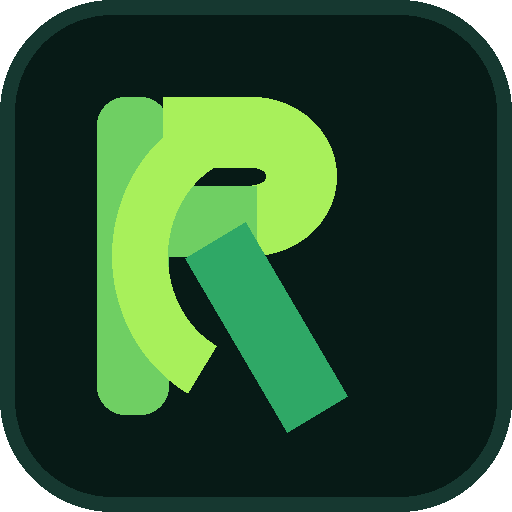
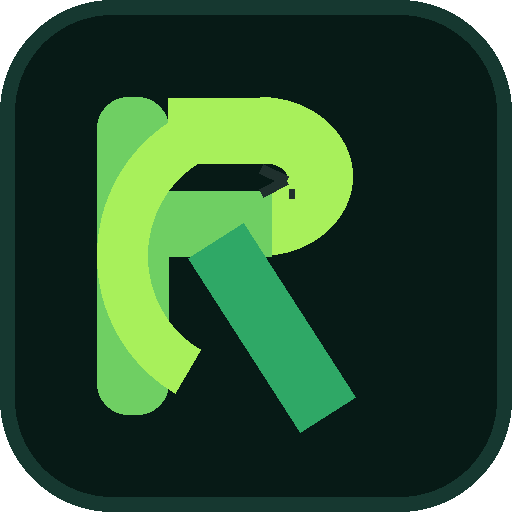
feat(branding): introduce precision vector RC monogram and wordmark identity

diff --git a/website/components/logo.tsx b/website/components/logo.tsx
@@ -1,53 +1,88 @@
-export function Logo({ className = "w-6 h-6" }: { className?: string }) {
+export function Logo({
+  className = "w-6 h-6",
+  showWordmark = false,
+}: {
+  className?: string;
+  showWordmark?: boolean;
+}) {
   return (
-    <svg
-      viewBox="0 0 64 64"
-      fill="none"
-      xmlns="http://www.w3.org/2000/svg"
-      className={className}
-    >
-      <defs>
-        <linearGradient id="v2-rc-gradient" x1="32" y1="6" x2="32" y2="58" gradientUnits="userSpaceOnUse">
-          <stop offset="0%" stopColor="#A8F05B" />
-          <stop offset="50%" stopColor="#6FCF63" />
-          <stop offset="100%" stopColor="#2FA866" />
-        </linearGradient>
-      </defs>
-
-      {/* Outer Rounded Container */}
-      <rect width="64" height="64" rx="14" fill="#071A16" stroke="#163830" strokeWidth="2" />
-
-      {/* R Stem */}
-      <rect x="12" y="12" width="9" height="40" rx="4.5" fill="url(#v2-rc-gradient)" />
-
-      {/* R Loop */}
-      <path
-        d="M 21 12 H 32 C 37.523 12 42 16.477 42 22 C 42 27.523 37.523 32 32 32 H 21"
+    <div className="inline-flex items-center gap-3 select-none">
+      <svg
+        viewBox="0 0 64 64"
         fill="none"
-        stroke="url(#v2-rc-gradient)"
-        strokeWidth="9"
-        strokeLinecap="round"
-        strokeLinejoin="round"
-      />
+        xmlns="http://www.w3.org/2000/svg"
+        className={className}
+      >
+        <defs>
+          <linearGradient id="rc-vector-gradient" x1="32" y1="6" x2="32" y2="58" gradientUnits="userSpaceOnUse">
+            <stop offset="0%" stopColor="#A8F05B" />
+            <stop offset="50%" stopColor="#6FCF63" />
+            <stop offset="100%" stopColor="#2FA866" />
+          </linearGradient>
+        </defs>
 
-      {/* R Diagonal Leg (Execution Cut) */}
-      <path
-        d="M 27 30 L 40 52"
-        fill="none"
-        stroke="url(#v2-rc-gradient)"
-        strokeWidth="9"
-        strokeLinecap="round"
-      />
+        {/* Outer Dark Container */}
+        <rect width="64" height="64" rx="14" fill="#071A16" stroke="#163830" strokeWidth="2" />
 
-      {/* C Arc */}
-      <path
-        d="M 52 20 C 47.5 13.5 39 12 33 12 C 22 12 14 21 14 32 C 14 43 22 52 33 52 C 39 52 47.5 50.5 52 44"
-        fill="none"
-        stroke="url(#v2-rc-gradient)"
-        strokeWidth="7"
-        strokeLinecap="round"
-        opacity="0.95"
-      />
-    </svg>
+        {/* Left Vertical Pillar (R) */}
+        <rect x="12" y="12" width="9" height="40" rx="4.5" fill="url(#rc-vector-gradient)" />
+
+        {/* Upper Loop of R */}
+        <path
+          d="M 21 12 H 34 C 40 12 44 16.5 44 22 C 44 27.5 40 32 34 32 H 21"
+          fill="none"
+          stroke="url(#rc-vector-gradient)"
+          strokeWidth="8"
+          strokeLinecap="round"
+          strokeLinejoin="round"
+        />
+
+        {/* 45° Diagonal Negative-Space Cut */}
+        <path
+          d="M 27 30 L 41 52"
+          fill="none"
+          stroke="url(#rc-vector-gradient)"
+          strokeWidth="8"
+          strokeLinecap="round"
+        />
+
+        {/* Large C Arc */}
+        <path
+          d="M 51 18 C 45 12 36 12 30 12 C 20 12 12 20 12 32 C 12 44 20 52 30 52 C 36 52 45 52 51 46"
+          fill="none"
+          stroke="url(#rc-vector-gradient)"
+          strokeWidth="6"
+          strokeLinecap="round"
+          opacity="0.9"
+        />
+
+        {/* Subtle Terminal Prompt inside C (> _) */}
+        <path
+          d="M 33 21 L 36 23.5 L 33 26"
+          fill="none"
+          stroke="#071A16"
+          strokeWidth="1.5"
+          strokeLinecap="round"
+          strokeLinejoin="round"
+        />
+        <line
+          x1="38" y1="26" x2="41" y2="26"
+          stroke="#071A16"
+          strokeWidth="1.5"
+          strokeLinecap="round"
+        />
+      </svg>
+
+      {showWordmark && (
+        <div className="flex flex-col text-left font-mono">
+          <span className="text-sm font-medium tracking-tight text-zinc-900 dark:text-[#F0F6FC]">
+            RahulChaube
+          </span>
+          <span className="text-[10px] font-normal tracking-wider text-zinc-500 dark:text-[#8B949E] uppercase">
+            Runtime
+          </span>
+        </div>
+      )}
+    </div>
   );
 }

diff --git a/scripts/generate_assets.py b/scripts/generate_assets.py
@@ -6,7 +6,7 @@ def create_logo_image(size):
     img = Image.new("RGBA", (width, height), (0, 0, 0, 0))
     draw = ImageDraw.Draw(img)
     
-    # Outer dark rounded rect
+    # Outer dark container
     rx = int(width * 0.22)
     bg_color = (7, 26, 22, 255) # #071A16
     draw.rounded_rectangle([0, 0, width-1, height-1], radius=rx, fill=bg_color, outline=(22, 56, 48, 255), width=max(1, int(width*0.03)))
@@ -16,33 +16,42 @@ def create_logo_image(size):
     c_mid = (111, 207, 99, 255)  # #6FCF63
     c_bot = (47, 168, 102, 255)  # #2FA866
     
-    # R Stem
+    # Left Vertical Pillar (R)
     x1 = int(width * 0.19)
     y1 = int(height * 0.19)
     w1 = int(width * 0.14)
     h1 = int(height * 0.62)
-    draw.rounded_rectangle([x1, y1, x1+w1, y1+h1], radius=int(w1*0.4), fill=c_mid)
+    draw.rounded_rectangle([x1, y1, x1+w1, y1+h1], radius=int(w1*0.45), fill=c_mid)
     
-    # R Loop
-    st_w = max(2, int(width * 0.14))
+    # R Upper Loop
+    st_w = max(2, int(width * 0.13))
     cx1 = int(width * 0.33)
     cy1 = int(height * 0.19)
-    cw = int(width * 0.33)
+    cw = int(width * 0.36)
     ch = int(height * 0.31)
     draw.arc([cx1, cy1, cx1+cw, cy1+ch], start=270, end=90, fill=c_top, width=st_w)
-    draw.line([int(width*0.32), int(height*0.19)+st_w//2, int(width*0.50), int(height*0.19)+st_w//2], fill=c_top, width=st_w)
-    draw.line([int(width*0.32), int(height*0.50)-st_w//2, int(width*0.50), int(height*0.50)-st_w//2], fill=c_mid, width=st_w)
+    draw.line([int(width*0.33), int(height*0.19)+st_w//2, int(width*0.53), int(height*0.19)+st_w//2], fill=c_top, width=st_w)
+    draw.line([int(width*0.33), int(height*0.50)-st_w//2, int(width*0.53), int(height*0.50)-st_w//2], fill=c_mid, width=st_w)
     
-    # R Diagonal Leg
-    draw.line([int(width*0.42), int(height*0.47), int(width*0.62), int(height*0.81)], fill=c_bot, width=st_w)
+    # Diagonal Negative Cut Leg
+    draw.line([int(width*0.42), int(height*0.47), int(width*0.64), int(height*0.81)], fill=c_bot, width=st_w)
     
-    # C Arc
-    arc_w = max(2, int(width * 0.11))
-    c_x1 = int(width * 0.22)
+    # Large C Arc
+    arc_w = max(2, int(width * 0.10))
+    c_x1 = int(width * 0.19)
     c_y1 = int(height * 0.19)
-    c_w = int(width * 0.59)
+    c_w = int(width * 0.61)
     c_h = int(height * 0.62)
     draw.arc([c_x1, c_y1, c_x1+c_w, c_y1+c_h], start=120, end=240, fill=c_top, width=arc_w)
+    
+    # Subtle Terminal Prompt (> _) if size >= 64
+    if size >= 64:
+        px1 = int(width * 0.51)
+        py1 = int(height * 0.33)
+        pw = max(2, int(width * 0.05))
+        draw.line([px1, py1, px1+pw, py1+pw//2], fill=(7, 26, 22, 230), width=max(1, int(width*0.02)))
+        draw.line([px1+pw, py1+pw//2, px1, py1+pw], fill=(7, 26, 22, 230), width=max(1, int(width*0.02)))
+        draw.line([px1+pw+3, py1+pw, px1+pw+8, py1+pw], fill=(7, 26, 22, 230), width=max(1, int(width*0.02)))
     
     return img
 
@@ -54,9 +63,9 @@ def create_social_card():
     logo = create_logo_image(160)
     img.paste(logo, (100, 235), logo)
     
-    draw.text((300, 240), "RahulChaube Runtime", fill=(240, 246, 252, 255))
-    draw.text((300, 310), "A next-generation JavaScript & TypeScript developer platform.", fill=(139, 148, 158, 255))
-    draw.text((300, 360), "Version 2 · MIT Licensed", fill=(111, 207, 99, 255))
+    draw.text((300, 240), "RahulChaube", fill=(240, 246, 252, 255))
+    draw.text((300, 290), "RUNTIME", fill=(111, 207, 99, 255))
+    draw.text((300, 340), "High-Performance JavaScript & TypeScript Platform", fill=(139, 148, 158, 255))
     
     return img
 
